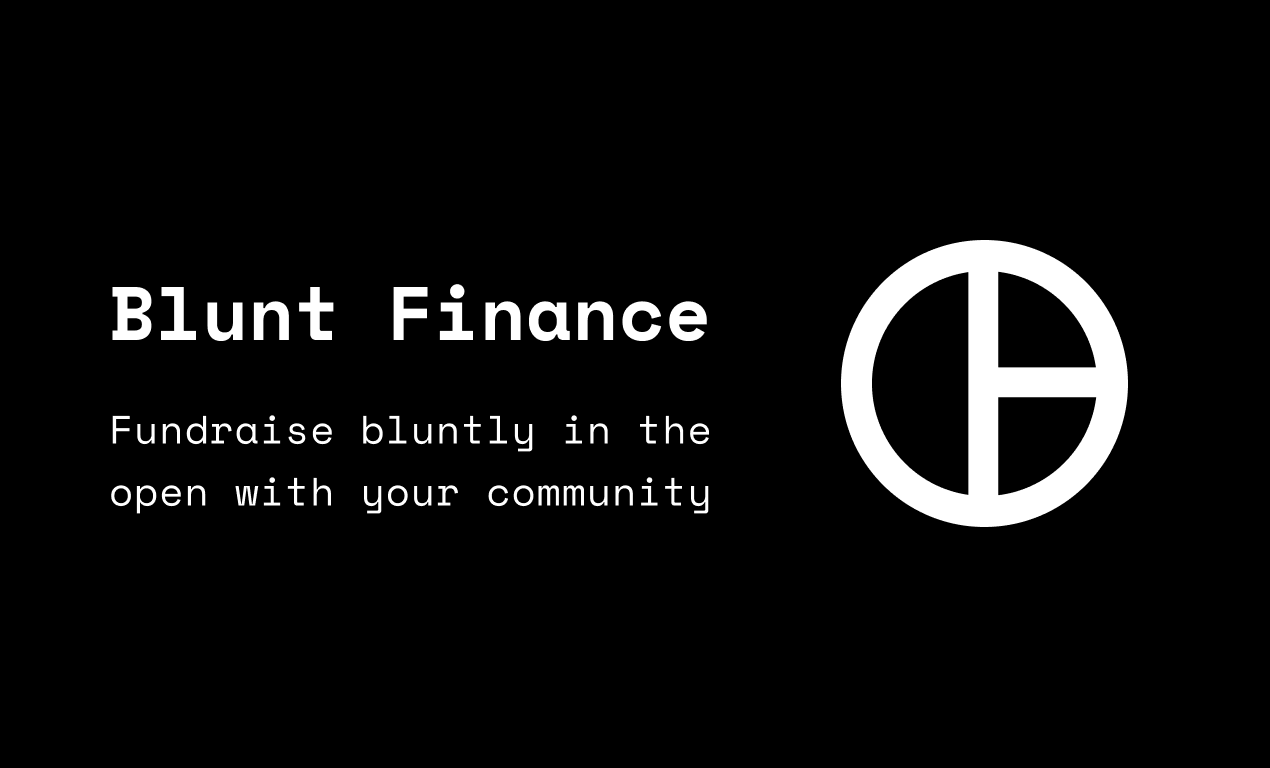
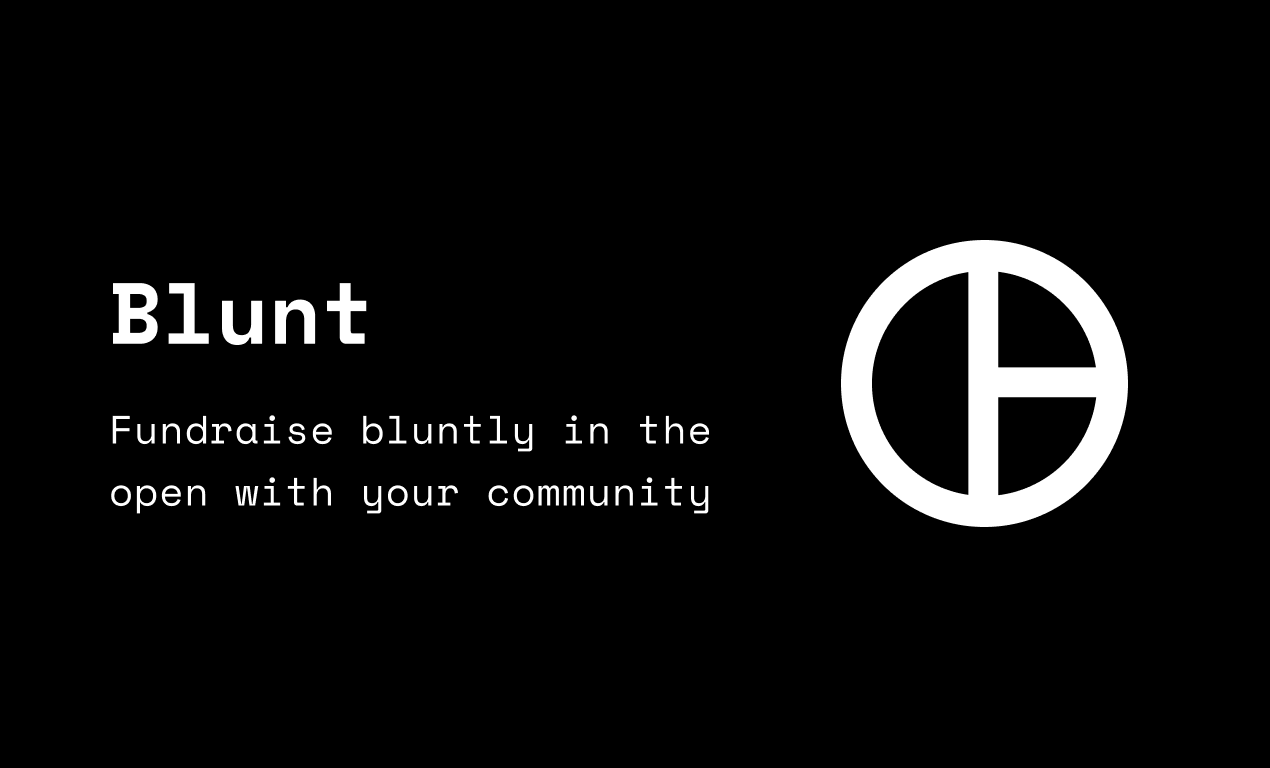
fix: replace finance => fund

Changed region(s): [[0.0921, 0.3438, 0.5528, 0.4688]]

diff --git a/pages/index.tsx b/pages/index.tsx
@@ -19,7 +19,7 @@ export default function Home({ subgraphData, projectData }) {
   return (
     <>
       <NextSeo
-        title="Blunt Finance | Fundraise bluntly in the open with your community."
+        title="Blunt | Fundraise bluntly in the open with your community."
         openGraph={{
           title: longTitle,
           description: defaultDescription,
@@ -37,7 +37,7 @@ export default function Home({ subgraphData, projectData }) {
       <Container page={true}>
         <main className="max-w-screen-sm pt-24 pb-8 mx-auto space-y-32">
           <div>
-            <h1 className="pb-10 sm:text-5xl">Blunt Finance</h1>
+            <h1 className="pb-10 sm:text-5xl">Blunt</h1>
             <p className="text-xl font-bold text-gray-500">
               Fundraise bluntly in the open with your community
             </p>

diff --git a/components/ui/CreateFormAdvancedLinks/CreateFormAdvancedLinks.tsx b/components/ui/CreateFormAdvancedLinks/CreateFormAdvancedLinks.tsx
@@ -126,7 +126,7 @@ const CreateFormAdvancedLinks = ({ roundData, setRoundData }: Props) => {
           label="Website"
           value={website}
           onChange={handleSetWebsite}
-          placeholder="https://blunt.finance"
+          placeholder="https://blunt.fund"
         />
       </div>
       <div>
@@ -153,7 +153,7 @@ const CreateFormAdvancedLinks = ({ roundData, setRoundData }: Props) => {
           label="Docs"
           value={docs}
           onChange={handleSetDocs}
-          placeholder="https://bluntfinance.notion.site"
+          placeholder="https://bluntfund.notion.site"
         />
       </div>
     </div>

diff --git a/components/common/Head.tsx b/components/common/Head.tsx
@@ -1,11 +1,10 @@
 import { FC } from "react"
 import NextHead from "next/head"
 import { DefaultSeo } from "next-seo"
-import Script from "next/script"
 
-export const defaultTitle = "Blunt Finance"
+export const defaultTitle = "Blunt"
 export const longTitle =
-  "Blunt Finance – Fundraise bluntly in the open with your community"
+  "Blunt – Fundraise bluntly in the open with your community"
 export const defaultDescription =
   "Trustless, refundable funding rounds based on a set of pre-defined rules."
 export const domain = process.env.NEXT_PUBLIC_APP_URL

diff --git a/components/ui/Navbar/Navbar.tsx b/components/ui/Navbar/Navbar.tsx
@@ -31,7 +31,7 @@ const Navbar = () => {
       <Container>
         <nav className="relative px-3 sm:px-6 h-[4.25rem] items-center mx-auto flex justify-between">
           <div className="flex items-center space-x-5 sm:space-x-10">
-            <Link href="/" className="w-7 h-7" aria-label="Blunt Finance logo">
+            <Link href="/" className="w-7 h-7" aria-label="Blunt logo">
               <Logo />
             </Link>
             <Link href="/rounds" className="text-sm font-bold">

diff --git a/components/ui/CreateFormAdvancedERC20/CreateFormAdvancedERC20.tsx b/components/ui/CreateFormAdvancedERC20/CreateFormAdvancedERC20.tsx
@@ -60,7 +60,7 @@ const CreateFormAdvancedERC20 = ({ roundData, setRoundData }: Props) => {
           label="Token name"
           value={tokenName}
           onChange={handleSetTokenName}
-          placeholder={name ? name : "Blunt Finance"}
+          placeholder={name ? name : "Blunt"}
           question={<>Name of the ERC20 token to be issued for the project.</>}
         />
       </div>

diff --git a/components/ui/Social/Social.tsx b/components/ui/Social/Social.tsx
@@ -25,7 +25,7 @@ export const accounts = {
   twitter: `https://twitter.com/${twitterAccount}`,
   discord: "https://discord.gg/Jd8XQjwYZY",
   // notion: "https://slicedao.notion.site",
-  github: "https://github.com/blunt-finance",
+  github: "https://github.com/blunt-fund",
   // blog: "/blog",
   // slice: "https://slice.so",
   juicebox: "https://juicebox.money/v2/p/433"

diff --git a/components/ui/OwnerBlockToken/OwnerBlockToken.tsx b/components/ui/OwnerBlockToken/OwnerBlockToken.tsx
@@ -56,7 +56,7 @@ const OwnerBlockToken = ({ projectId, bluntDelegate, round }: Props) => {
             type="string"
             value={tokenData.tokenName}
             onChange={handleSetTokenName}
-            placeholder={tokenName || "Blunt finance"}
+            placeholder={tokenName || "Blunt"}
           />
         </div>
         <div className="xs:w-36">

diff --git a/pages/rounds/[id].tsx b/pages/rounds/[id].tsx
@@ -50,7 +50,7 @@ export default function Round({ subgraphData, projectData }) {
   return (
     <>
       <NextSeo
-        title={`${projectData.metadata.name} | Round | Blunt Finance`}
+        title={`${projectData.metadata.name} | Round | Blunt`}
         openGraph={{
           title: longTitle,
           description: defaultDescription,

diff --git a/components/ui/HomeHowItWorks/HomeHowItWorks.tsx b/components/ui/HomeHowItWorks/HomeHowItWorks.tsx
@@ -50,7 +50,7 @@ const HomeHowItWorks = () => {
         </ul>
       </div>
       <p className="pt-4 text-sm font-bold text-gray-400">
-        Blunt Finance is based on the{" "}
+        Blunt is based on the{" "}
         <a
           href="https://juicebox.money"
           className="text-gray-400 highlight"

diff --git a/pages/rounds/index.tsx b/pages/rounds/index.tsx
@@ -14,7 +14,7 @@ export default function Explore({ subgraphData, projectData }) {
   return (
     <>
       <NextSeo
-        title="Explore rounds | Blunt Finance"
+        title="Explore rounds | Blunt"
         openGraph={{
           title: longTitle,
           description: defaultDescription,

diff --git a/utils/formatDeployData.ts b/utils/formatDeployData.ts
@@ -80,7 +80,7 @@ const formatDeployData = (roundData: RoundData, totalShares: number) => {
       groupedSplits: [],
       fundAccessConstraints: [],
       terminals: [addressConstants.JBTerminal],
-      memo: "Created from blunt.finance"
+      memo: "Created from blunt"
     }
   }
 }

diff --git a/pages/create.tsx b/pages/create.tsx
@@ -11,7 +11,7 @@ export default function Create() {
   return (
     <>
       <NextSeo
-        title="Create round | Blunt Finance"
+        title="Create round | Blunt"
         openGraph={{
           title: longTitle,
           description: defaultDescription,
